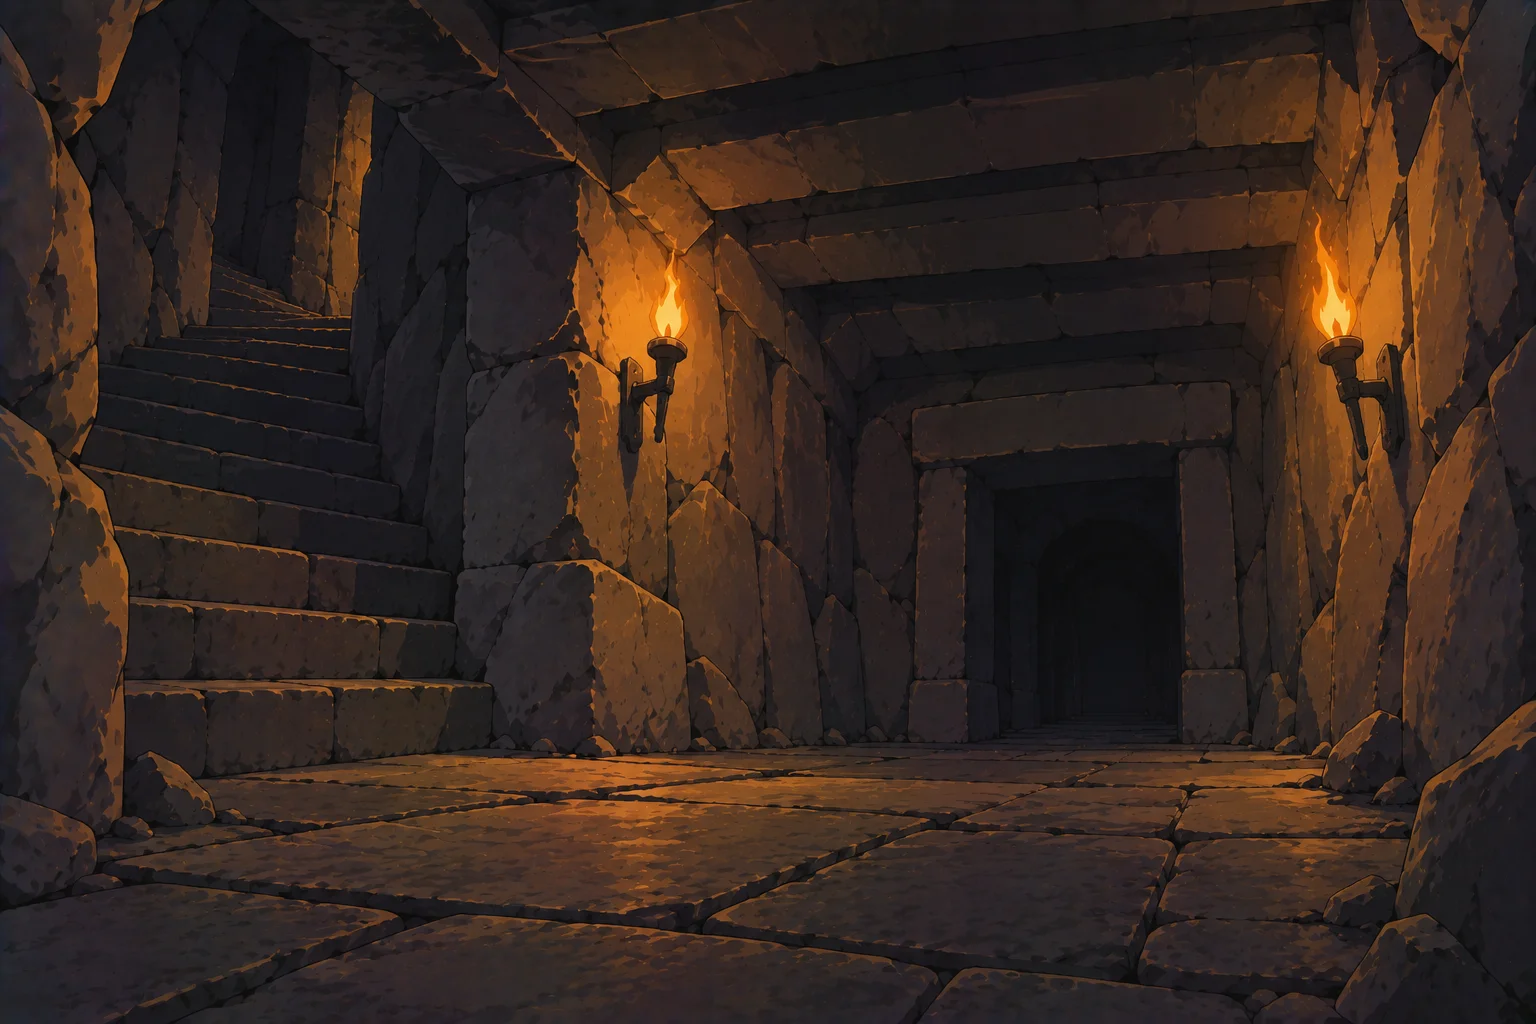
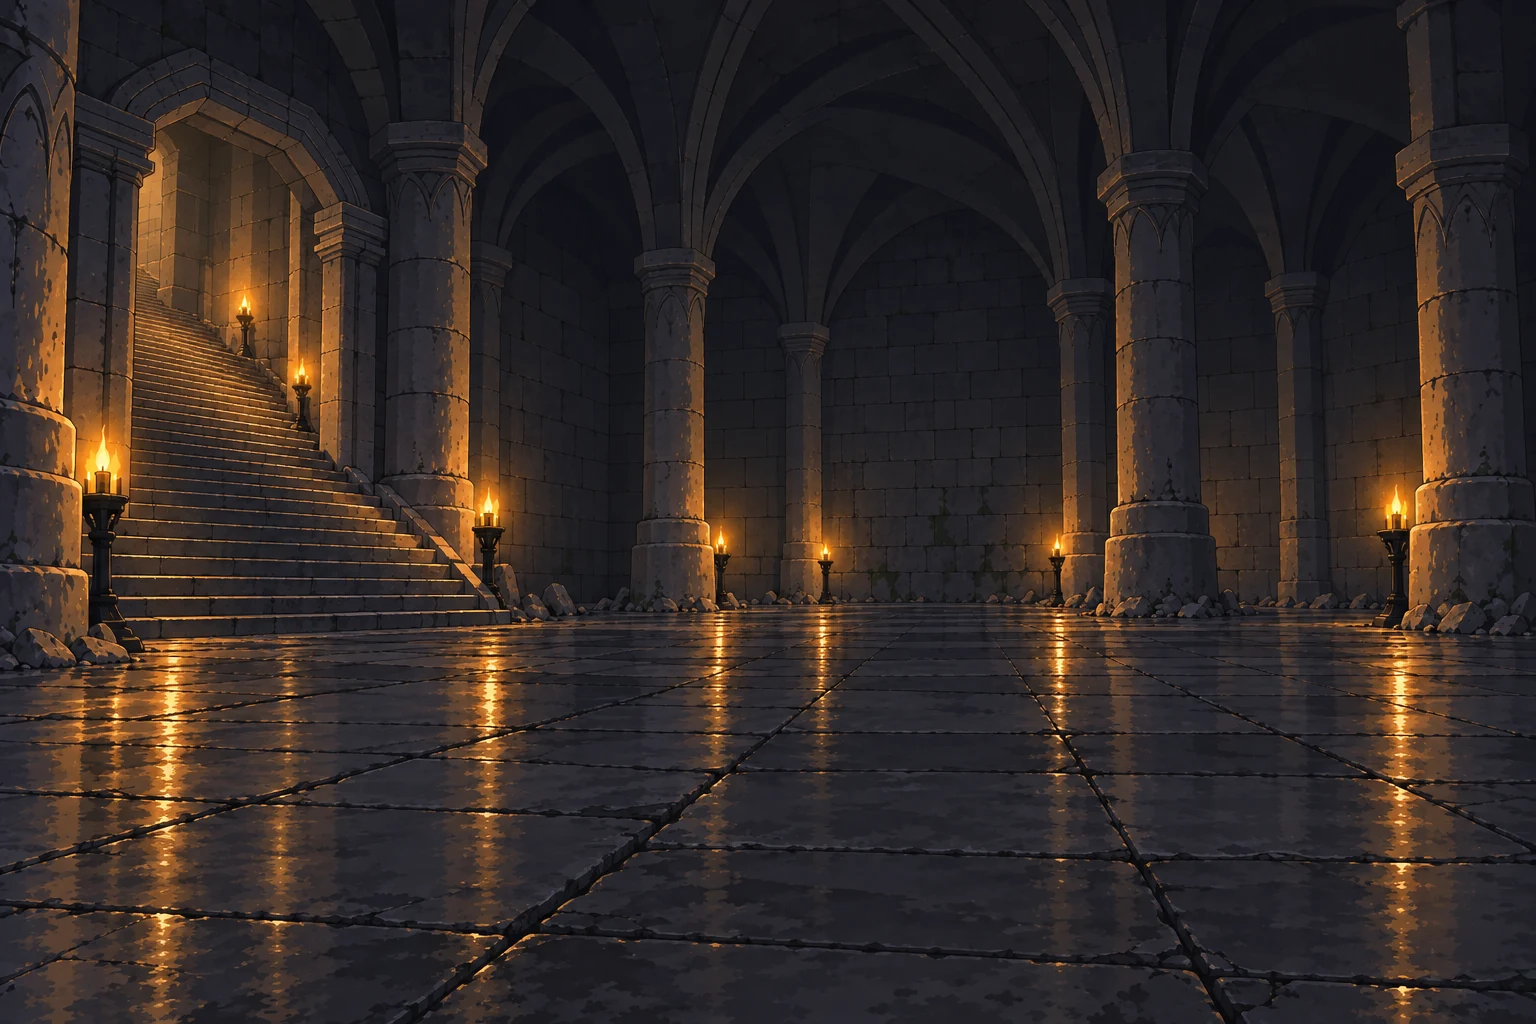
art(古墓): 底層梯廳改畫成寬廣列柱大廳 —— 只有那一道石階
Ray：「玄室前廊 底層梯廳 石棺主室通通要畫大」

landing3 是 2 出口（up:'stair2' / down:'gallery3'）⇒ 畫面上 1 條，
而那一條是**石階**不是門洞 —— 左側一道寬大的石階往上，其餘牆面實心。

⚠ 它還帶 rest:true / noWild:true，是三個安全點之一（結算點）。
所以提示詞指定「開闊乾淨、沒有威脅感，不要屍骨棺材蛛網」——
那是它在玩法上的功能，不只是好看。

⚠ 程式端：ASSET_VER 再加 'tomb_landing3': 2。

diff --git a/resources/background/_tomb_fill_worklist.md b/resources/background/_tomb_fill_worklist.md
@@ -217,8 +217,8 @@
 | `tomb_lowaltar_off` | ⏳ 圖好了，**壓著不交**（等點亮版） | **現行的 `tomb_lowaltar_off`**（祭壇造型不能變） |
 | `tomb_lowaltar` | ⏳ 同串衍生中 | 同上 |
 | `tomb_gallery3` | ✔ 已交（寬廣列柱大廳，**兩條通道**） | `tomb_crossing` |
-| `tomb_landing3` | ⏳ 生成中 | `tomb_colonnade` |
-| `tomb_crypt` | ⏳ 還沒開始 | `tomb_crypta` |
+| `tomb_landing3` | ✔ 已交（寬廣列柱大廳＋左側大石階，**只有那一條路**） | `tomb_colonnade` |
+| `tomb_crypt` | ⏳ 生成中 | `tomb_crypta` |
 
 > Ray（追加）：「玄室前廊 底層梯廳 石棺主室通通要畫大」
 
@@ -267,4 +267,4 @@
 讀起來是畫出來的石面，不是雜訊。依憲法 -930「寧可漏判也不要為了保險整批過 Gemini」
 先**照交**，要不要補一趟去顆粒由 Ray 看畫面決定。
 
-⚠ `tomb_gallery3` 也要加 `ASSET_VER` 一列（`'tomb_gallery3': 2`）。
+⚠ `ASSET_VER` 目前累積要加的：`tomb_vaultw`／`tomb_bonepit`／`tomb_gallery3`／`tomb_landing3`（都是 2）。
